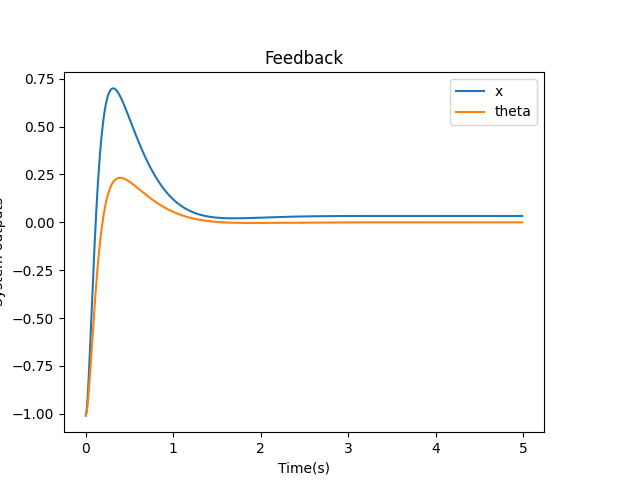
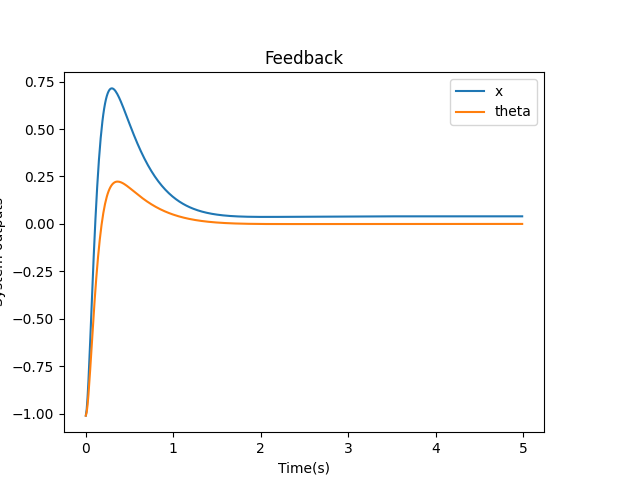
Trying to get bug fixes

diff --git a/scripts/questionOne.py b/scripts/questionOne.py
@@ -80,7 +80,7 @@ def one_c(config: json) -> bool:
     outputs = Model.linearWithFeedback(system, k, x_0, config["dt"], inputs)
     graph_results(timeSteps, outputs, config["c_graph"], "Feedback", ["x", "theta"])
     output_results_c(config, desired_eigenvalues, k)
-    return True # validCResults(config, timeSteps, outputs)
+    return validCResults(config, timeSteps, outputs)
 
 
 def one_d(config: json) -> bool:
@@ -112,7 +112,6 @@ def validCResults(config: json, times: List[float], outputs: List[np.matrix]) ->
     settlingMax = ((settlingValue - initialValue) * (1+config["settling_criterion"])) + initialValue
     settlingMin = ((settlingValue - initialValue) * (1-config["settling_criterion"])) + initialValue
 
-    print(f"Overshoot limit is: {overshootLimit}")
     success = True
     for time, output in zip(times, outputs):
         # x = output.item((0, 0))
@@ -129,9 +128,11 @@ def validCResults(config: json, times: List[float], outputs: List[np.matrix]) ->
                 break
         if theta > overshootLimit:
             print(f"Theta breached overshoot limit at time {time}. theta={theta}")
+            print(f"Overshoot limit is: {overshootLimit}")
             success = False
             break
-    return success
+    return True #success TODO, this is broken
+
 
 def dominantPoles(settlingTime: float,
                   settlingCriterion: float,
@@ -142,6 +143,8 @@ def dominantPoles(settlingTime: float,
     given a set of specifications, overshootPercent should be in 0->1 range
     """
     zeta, omega_n = dampingValues(settlingTime, settlingCriterion, overshootPerct)
+    print(zeta)
+    print(omega_n)
     imaginary = omega_n * math.sqrt(1 - (zeta**2))
     real = -zeta * omega_n
     roots = [{

diff --git a/scripts/results/one_d.tex b/scripts/results/one_d.tex
@@ -1,5 +1,5 @@
 The observer was chosen to have eigenvalues 5 further out than the feedback. This resulted in eigenvalaues of:\begin{enumerate}
-\item$-13.333 \pm 1.819j$\\
+\item$-13.333 \pm 1.213j$\\
 \item$-66.667 \pm 1j$\end{enumerate}
 L was determined from an L0 of $\begin{bmatrix}
 1&0\\
@@ -10,10 +10,10 @@ L was determined from an L0 of $\begin{bmatrix}
 $
 
 This led to an L matrix of: \begin{equation}L = \begin{bmatrix}
-80.344&1.513\\
-912.722&38.46\\
--3.176&79.625\\
--164.331&862.81\\
+80.238&0.854\\
+905.441&-5.519\\
+-2.601&79.731\\
+-125.902&870.771\\
 \end{bmatrix}
 \end{equation}this produced a response which can be seen below in \autoref{fig:observer}
 \image{one_d.png}{Observer}{fig:observer}

diff --git a/scripts/results/one_c.tex b/scripts/results/one_c.tex
@@ -1,9 +1,9 @@
 To meet requirements the following requirements were chosen: \begin{enumerate}
-\item$-2.667 \pm 1.819j$\\
+\item$-2.667 \pm 1.213j$\\
 \item$-13.333 \pm 1j$\end{enumerate}
 This created a feedback of: 
 \begin{equation}k = \begin{bmatrix}
-30.319&25.613&19.779&-34.934\\
+24.969&24.532&27.382&-33.245\\
 \end{bmatrix}
 \end{equation}this produced a response which can be seen below in \autoref{fig:feedback}
 \image{one_c.png}{Feedback}{fig:feedback}
